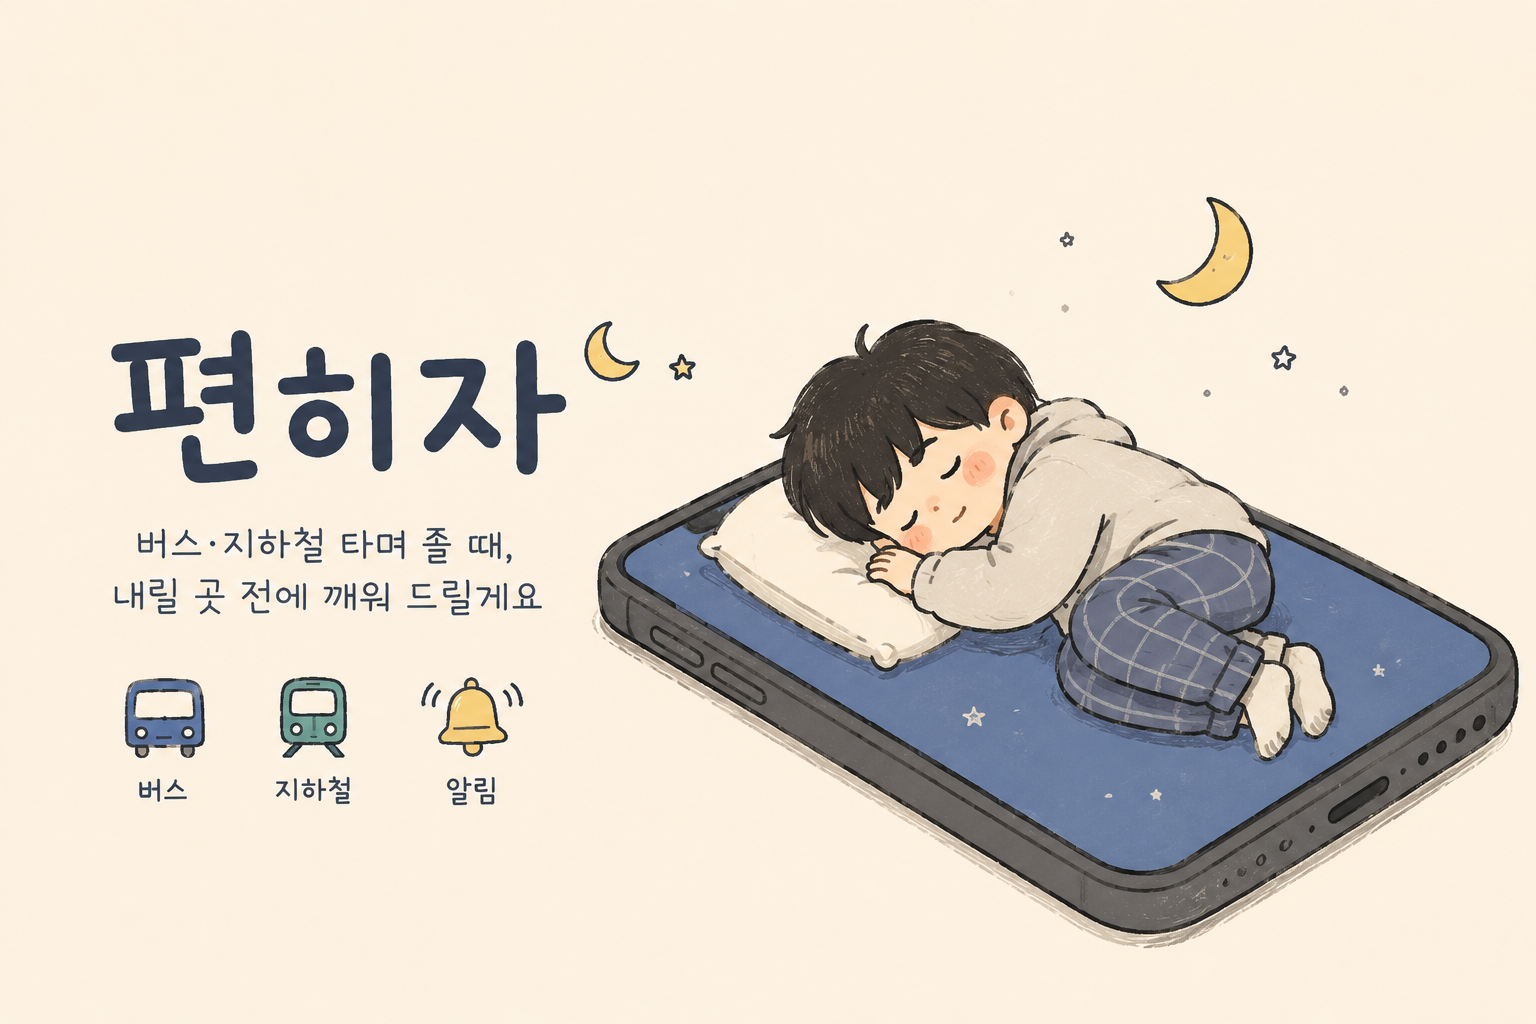
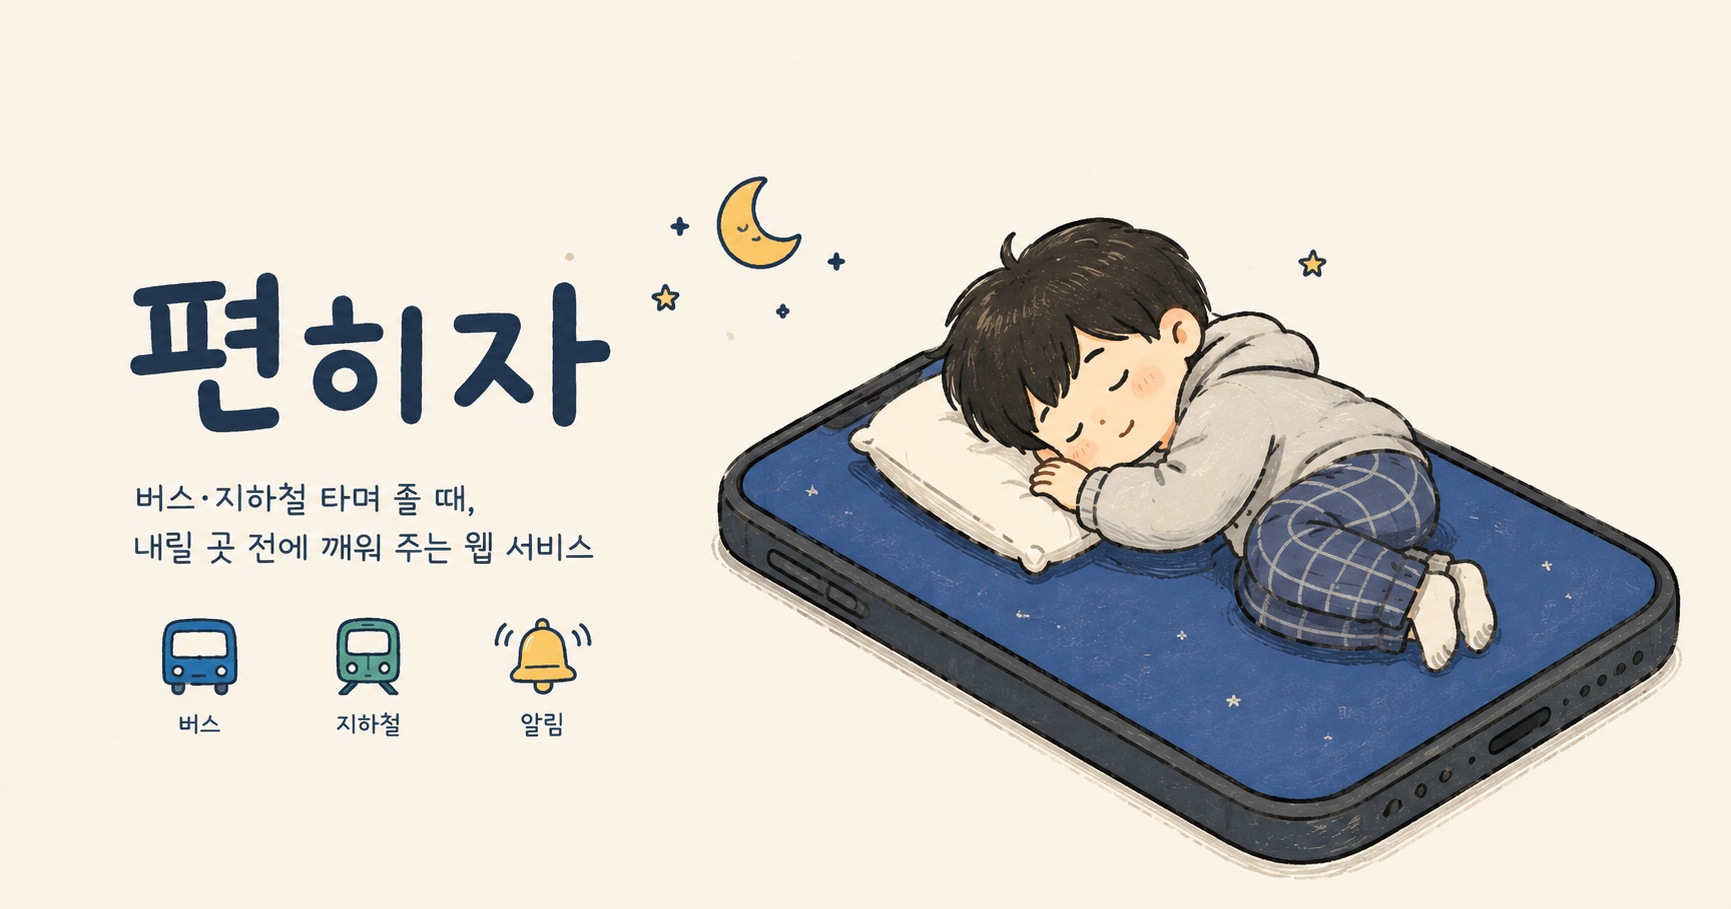
공유 미리보기 OG 이미지를 새 일러스트로 교체한다.

diff --git a/index.html b/index.html
@@ -46,11 +46,11 @@
       property="og:description"
       content="버스·지하철에서 졸아도 내릴 정류장·역 전에 깨워 드려요. 노선번호로 찾고, 몇 정거장 전에 알려 줍니다."
     />
-    <meta property="og:image" content="https://sleep-comfortable.vercel.app/og.png?v=2" />
-    <meta property="og:image:alt" content="편히자 — 버스·지하철 타며 졸 때, 내릴 곳 전에 깨워 드릴게요" />
+    <meta property="og:image" content="https://sleep-comfortable.vercel.app/og.png?v=3" />
+    <meta property="og:image:alt" content="편히자 — 버스·지하철 타며 졸 때, 내릴 곳 전에 깨워 주는 웹 서비스" />
     <meta property="og:image:type" content="image/png" />
-    <meta property="og:image:width" content="1536" />
-    <meta property="og:image:height" content="1024" />
+    <meta property="og:image:width" content="1731" />
+    <meta property="og:image:height" content="909" />
 
     <meta name="twitter:card" content="summary_large_image" />
     <meta name="twitter:title" content="편히자 | 버스·지하철 내릴 곳 전에 깨워 주는 앱" />
@@ -58,8 +58,8 @@
       name="twitter:description"
       content="버스·지하철에서 졸아도 내릴 정류장·역 전에 깨워 드려요."
     />
-    <meta name="twitter:image" content="https://sleep-comfortable.vercel.app/og.png?v=2" />
-    <meta name="twitter:image:alt" content="편히자 — 버스·지하철 타며 졸 때, 내릴 곳 전에 깨워 드릴게요" />
+    <meta name="twitter:image" content="https://sleep-comfortable.vercel.app/og.png?v=3" />
+    <meta name="twitter:image:alt" content="편히자 — 버스·지하철 타며 졸 때, 내릴 곳 전에 깨워 주는 웹 서비스" />
 
     <script type="application/ld+json">
       {
@@ -78,8 +78,8 @@
           "price": "0",
           "priceCurrency": "KRW"
         },
-        "image": "https://sleep-comfortable.vercel.app/og.png?v=2",
-        "screenshot": "https://sleep-comfortable.vercel.app/og.png?v=2"
+        "image": "https://sleep-comfortable.vercel.app/og.png?v=3",
+        "screenshot": "https://sleep-comfortable.vercel.app/og.png?v=3"
       }
     </script>
 
